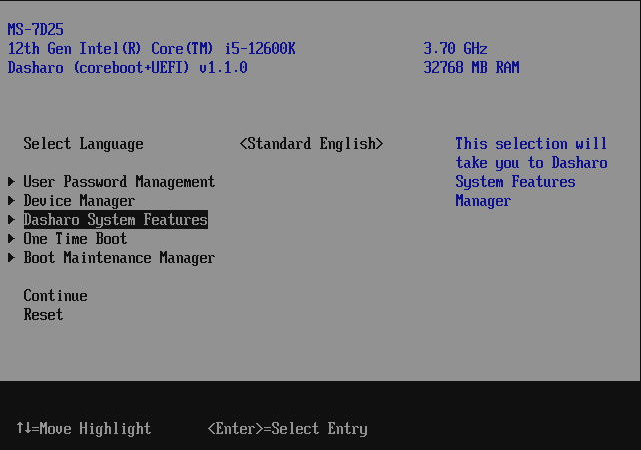
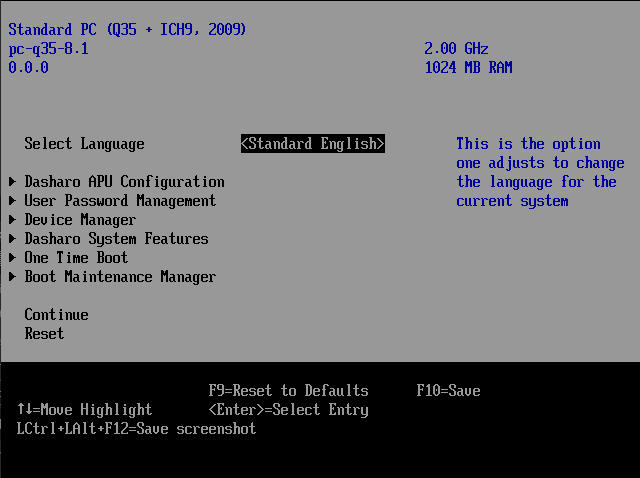
docs/dasharo-menu-docs: Add APU configuration documentation

diff --git a/docs/dasharo-menu-docs/dasharo-apu-configuration.md b/docs/dasharo-menu-docs/dasharo-apu-configuration.md
@@ -1,0 +1,43 @@
+# Dasharo APU Configuration
+
+The Dasharo APU Configuration menu is an exclusive menu for PC Engines apu
+platforms. This menu is intended to provide equivalent runtime configuration
+capabilities as [PC Engines sortbootorder](https://github.com/pcengines/sortbootorder).
+
+> Not all sortbootorder options may be currently available. They may be added
+> in the future.
+
+## Dasharo APU Configuration menu options
+
+When entering the `Dasharo APU Configuration` menu, one may see the
+following options to appear:
+
+![](/images/menus/apu_config.jpeg){ class="center" }
+
+### Core Performance Boost
+
+This option enables AMD Core Performance Boost (aka CPU Turbo). When enabled
+firmware will make 2 additional boosted P-states available. Core Performance
+Boost is able to raise a single core frequency from 1000MHz up to 1400MHz if
+other cores are pretty much inactive.
+
+Disable this option if you notice system unstabilities.
+
+### Watchdog
+
+`Enable watchdog` option controls whether the AMD FCH watchdog will be enabled
+during boot. When selected, the `Watchdog timeout value` will appear, where
+one can specify the watchdog expiration timeout in seconds.
+
+The watchdog is useful when a platform hangs and needs to be reset
+automatically, which will happen if watchdog timer expires. Minimum timeout is
+60s to let the OS take control over the watchdog (e.g. sp5100_tco watchdog
+driver for Linux) and keep reloading it to avoid resets.
+
+### PCI Express power management features
+
+When enabled, the firmware will attempt to enable Clock Power Management, ASPM
+L0s and L1 on PCI Express ports. Enabling these options may result in [PCI
+Express device performance
+reduction](https://github.com/pcengines/coreboot/issues/387) at the cost of
+better power savings.

diff --git a/docs/dasharo-menu-docs/overview.md b/docs/dasharo-menu-docs/overview.md
@@ -48,6 +48,8 @@ In such case please follow the EC firmware update instructions for a specific
 board variant.
 
 * [Setup Main Page](#main-page)
+    - [Dasharo APU Configuration](dasharo-apu-configuration.md) (PC Engines
+      APUs only)
     - [User Password Management](#user-password-management)
     - [Device Manager](device-manager.md)
     - [Dasharo System Features](dasharo-system-features.md)
